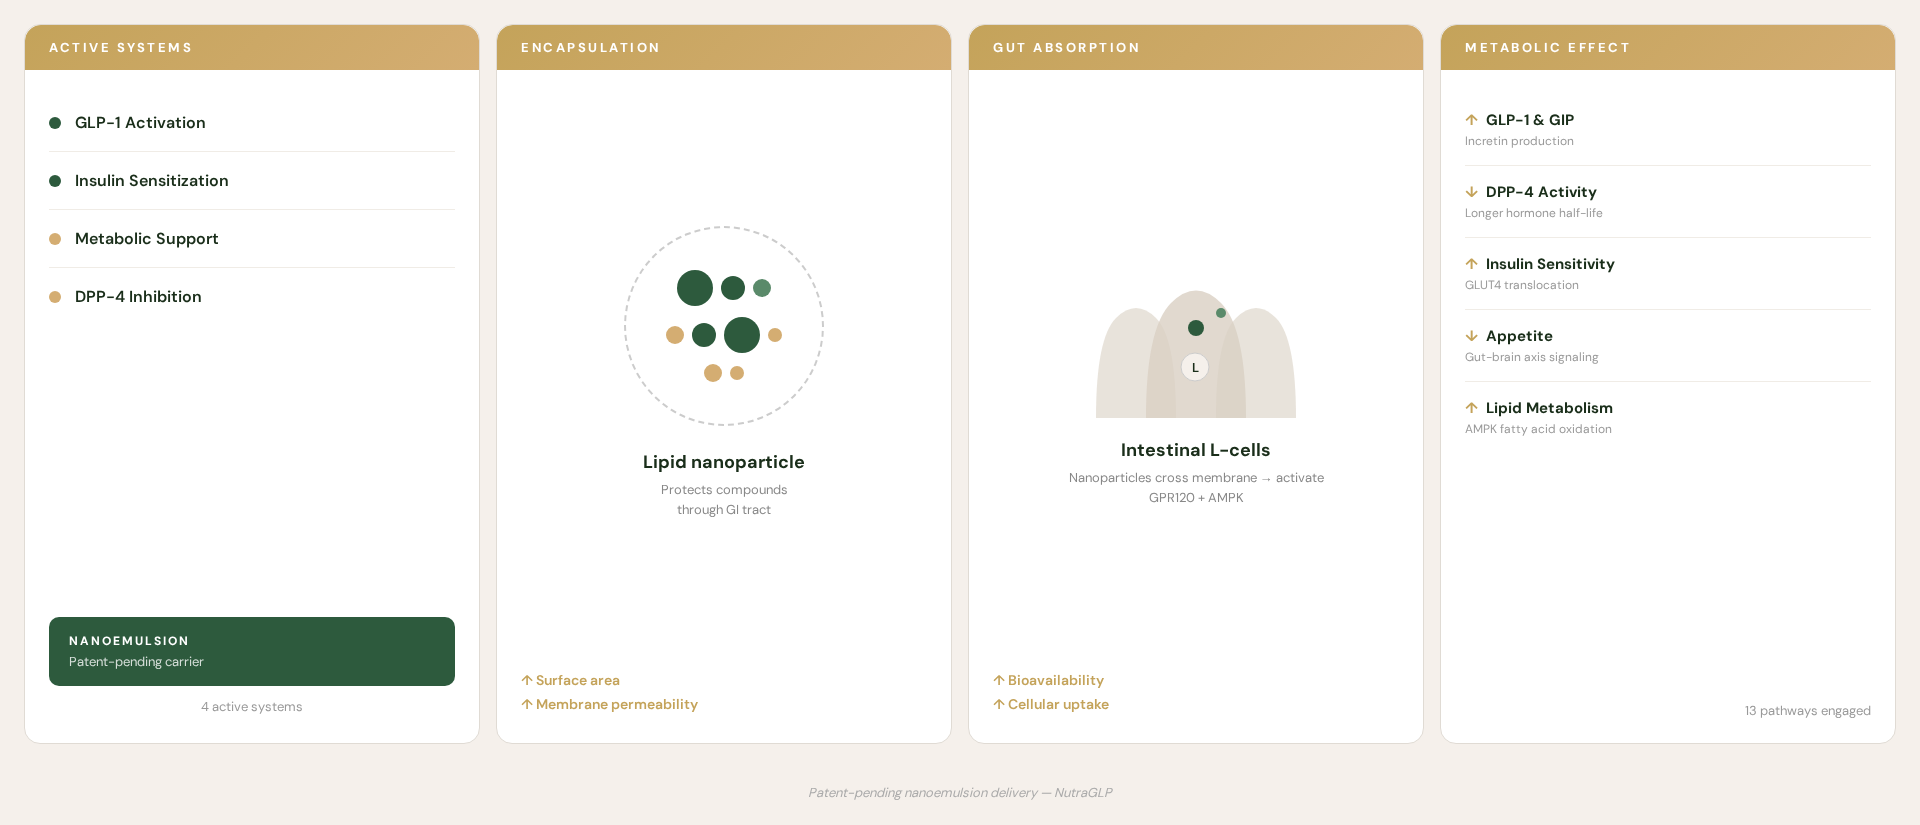
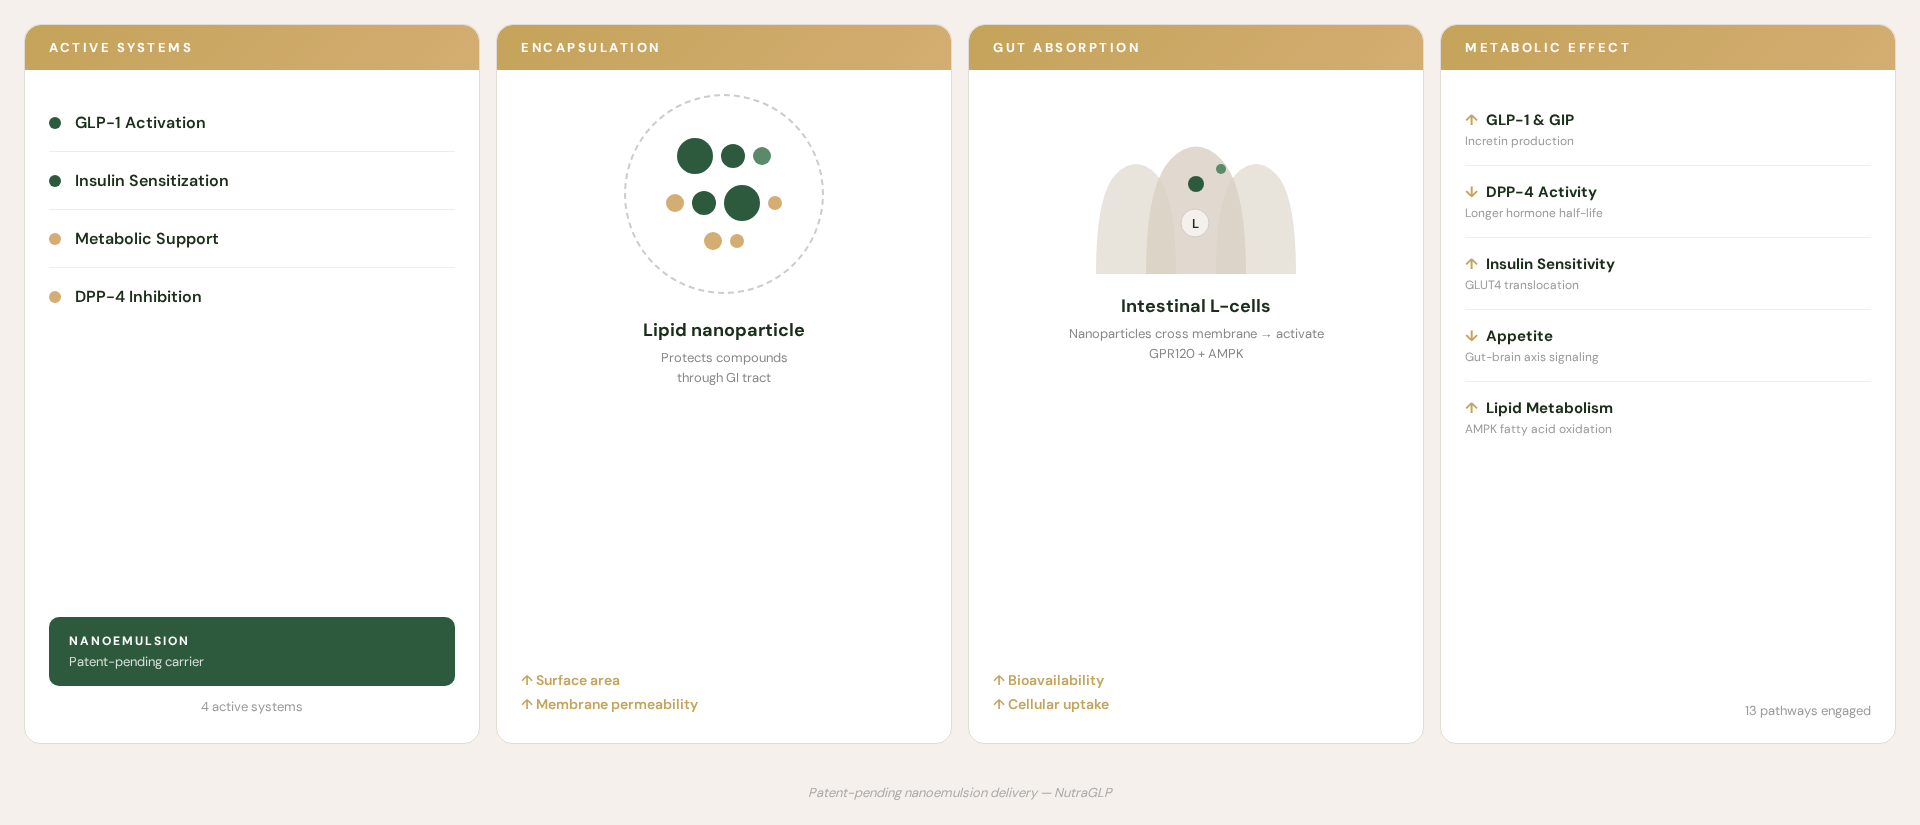
Add leadership bios and headshots to about page, fix mechanism diagram alignment
Leadership section now features Richard Kaufman (Founder/CEO) and Chris McCann
(Co-Founder/President) with headshots and bios. Mechanism diagram updated so
columns 2 and 3 visuals align to top of content area matching columns 1 and 4.

diff --git a/app/about/page.tsx b/app/about/page.tsx
@@ -1,4 +1,5 @@
 import type { Metadata } from "next";
+import Image from "next/image";
 import Link from "next/link";
 import Footer from "../components/Footer";
 
@@ -11,26 +12,62 @@ export const metadata: Metadata = {
   },
 };
 
-const personSchema = {
+const teamSchema = {
   "@context": "https://schema.org",
-  "@type": "Person",
-  name: "[Founder Name]",
-  jobTitle: "Founder & CEO",
-  worksFor: {
+  "@type": "Organization",
+  name: "NutraGLP",
+  url: "https://nutraglp.com",
+  parentOrganization: {
     "@type": "Organization",
-    name: "NutraGLP",
-    url: "https://nutraglp.com",
+    name: "NanoAlchemie",
   },
-  description:
-    "Founder and CEO of NutraGLP. Background in metabolic science and nutraceutical product development. Leading development of patent-pending nanoemulsion delivery systems for natural GLP-1 activation.",
+  member: [
+    {
+      "@type": "Person",
+      name: "Richard Kaufman, PhD",
+      jobTitle: "Founder & CEO",
+      description:
+        "Architect of the NutraGLP platform and IP portfolio. Inventor of patented nanoparticle delivery systems across 24+ countries. Former CSO & Co-Founder of Nanosphere Health Sciences.",
+    },
+    {
+      "@type": "Person",
+      name: "Chris McCann",
+      jobTitle: "Co-Founder & President",
+      description:
+        "15+ years leading enterprise sales organizations across SaaS, cloud infrastructure, and emerging technology. Responsible for go-to-market strategy, capital formation, and commercial operations at NutraGLP.",
+    },
+  ],
 };
+
+const team = [
+  {
+    name: "Richard Kaufman, PhD",
+    role: "Founder & CEO",
+    image: "/images/richard-kaufman.jpg",
+    bio: [
+      "Richard built the NutraGLP platform and its underlying intellectual property portfolio. He invented the patented nanoparticle delivery systems that form the basis of the company's technology, with patent protection across 24+ countries spanning nutraceutical and pharmaceutical biotechnology applications.",
+      "Before NutraGLP, Richard served as Chief Science Officer and Co-Founder of Nanosphere Health Sciences, a publicly traded nanoemulsion technology company. His work in nano-encapsulation earned the Frost & Sullivan Innovation Award.",
+      "His focus now is the same problem he has studied for two decades: how to get bioactive compounds past the GI tract and into the bloodstream at concentrations that matter. The nanoemulsion platform is the answer he kept arriving at.",
+    ],
+  },
+  {
+    name: "Chris McCann",
+    role: "Co-Founder & President",
+    image: "/images/chris-mccann.png",
+    bio: [
+      "Chris spent fifteen years leading enterprise sales organizations across SaaS, cloud infrastructure, and emerging technology before co-founding NutraGLP. The pattern he observed across every category was the same: the best technology means nothing without distribution and trust.",
+      "At NutraGLP he is responsible for go-to-market strategy, capital formation, and commercial operations. He builds the systems that connect the science to the market, the investors to the mission, and the product to the consumer.",
+      "He also studies consciousness, identity, and the structures that shape human decision-making. That work informs how he thinks about brand, positioning, and the gap between what people want and what they are willing to try.",
+    ],
+  },
+];
 
 export default function AboutPage() {
   return (
     <main>
       <script
         type="application/ld+json"
-        dangerouslySetInnerHTML={{ __html: JSON.stringify(personSchema) }}
+        dangerouslySetInnerHTML={{ __html: JSON.stringify(teamSchema) }}
       />
 
       {/* Hero */}
@@ -50,53 +87,47 @@ export default function AboutPage() {
         </p>
       </section>
 
-      {/* Founder */}
+      {/* Leadership */}
       <section className="py-24 px-6 md:px-12">
-        <div className="max-w-[720px] mx-auto">
-          <div className="md:flex md:gap-12 md:items-start">
-            {/* Photo placeholder */}
-            <div className="w-[160px] h-[160px] rounded-xl bg-white border border-rule flex items-center justify-center shrink-0 mb-8 md:mb-0">
-              <div className="text-center">
-                <div
-                  className="text-4xl text-forest-mid/20 mb-1"
-                  style={{ fontFamily: "'Fraunces', Georgia, serif" }}
-                >
-                  ?
-                </div>
-                <p className="text-[9px] text-mist-light uppercase tracking-wider">Photo</p>
-              </div>
-            </div>
+        <div className="max-w-[900px] mx-auto">
+          <p className="text-[11px] font-bold uppercase tracking-[2px] text-forest-mid mb-10">
+            Leadership
+          </p>
 
-            <div>
-              <p className="text-[11px] font-bold uppercase tracking-[2px] text-forest-mid mb-3">
-                Founder &amp; CEO
-              </p>
-              <h2
-                className="text-2xl md:text-3xl font-normal tracking-tight text-ink mb-4"
-                style={{ fontFamily: "'Fraunces', Georgia, serif" }}
+          <div className="space-y-20">
+            {team.map((person) => (
+              <div
+                key={person.name}
+                className="md:flex md:gap-12 md:items-start"
               >
-                [Founder Name]
-              </h2>
-              <div className="space-y-4 text-[16px] leading-[1.75] text-mist">
-                <p>
-                  [Placeholder: 2-3 sentences about the founder&apos;s background.
-                  What led them to metabolic health. Professional experience
-                  relevant to building a nutraceutical company. Keep it factual,
-                  not promotional.]
-                </p>
-                <p>
-                  [Placeholder: The origin of NutraGLP. The observation or
-                  problem that started it. The thesis: that the bioavailability
-                  problem is solvable, and that endogenous GLP-1 activation is a
-                  viable complement to pharmaceutical approaches.]
-                </p>
-                <p>
-                  [Placeholder: What they are focused on now. The nanoemulsion
-                  platform, the regulatory pathway, the team they are building.
-                  A sentence about what drives them. End there.]
-                </p>
+                <div className="w-[180px] h-[220px] rounded-xl overflow-hidden shrink-0 mb-8 md:mb-0 bg-cream-warm border border-rule">
+                  <Image
+                    src={person.image}
+                    alt={person.name}
+                    width={180}
+                    height={220}
+                    className="w-full h-full object-cover object-top"
+                  />
+                </div>
+
+                <div>
+                  <p className="text-[11px] font-bold uppercase tracking-[2px] text-forest-mid mb-3">
+                    {person.role}
+                  </p>
+                  <h2
+                    className="text-2xl md:text-3xl font-normal tracking-tight text-ink mb-4"
+                    style={{ fontFamily: "'Fraunces', Georgia, serif" }}
+                  >
+                    {person.name}
+                  </h2>
+                  <div className="space-y-4 text-[16px] leading-[1.75] text-mist">
+                    {person.bio.map((paragraph, i) => (
+                      <p key={i}>{paragraph}</p>
+                    ))}
+                  </div>
+                </div>
               </div>
-            </div>
+            ))}
           </div>
         </div>
       </section>
